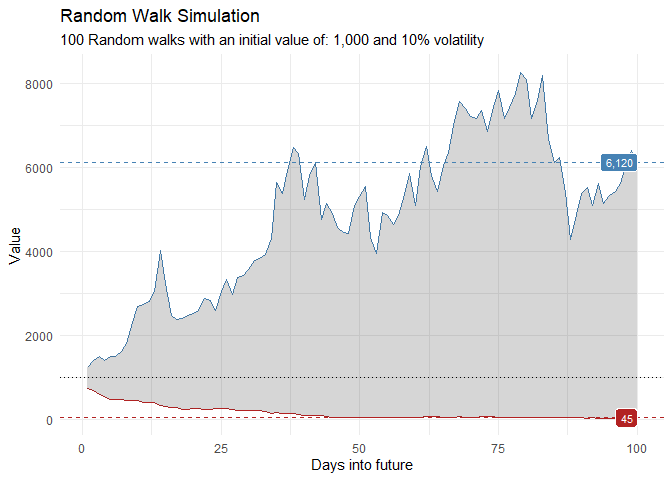
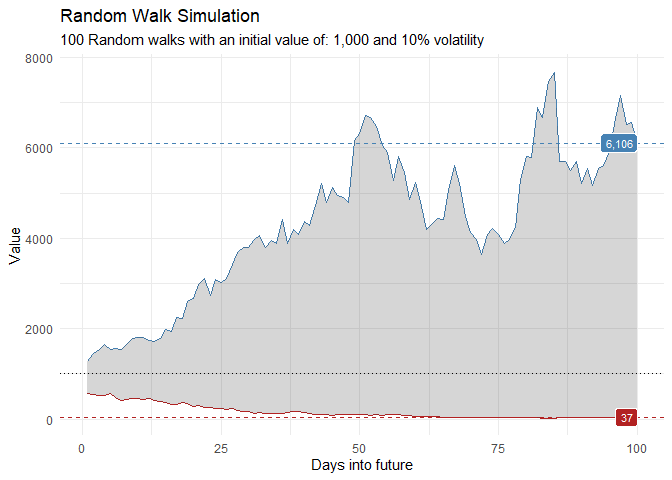
rebuild readme

diff --git a/README.md b/README.md
@@ -1,7 +1,7 @@
 
 <!-- README.md is generated from README.Rmd. Please edit that file -->
 
-# healthyR.ts <img src="man/figures/test1.png" width="147" height="170" align="right" />
+# healthyR.ts <img src="man/figures/logo.png" width="147" height="170" align="right" />
 
 <!-- badges: start -->
 
@@ -49,12 +49,12 @@ head(df)
 #> # A tibble: 6 × 4
 #>     run     x        y cum_y
 #>   <dbl> <dbl>    <dbl> <dbl>
-#> 1     1     1 -0.0511   949.
-#> 2     1     2  0.247   1184.
-#> 3     1     3  0.00805 1193.
-#> 4     1     4  0.188   1417.
-#> 5     1     5 -0.0373  1364.
-#> 6     1     6 -0.0302  1323.
+#> 1     1     1  0.00657 1007.
+#> 2     1     2  0.0209  1028.
+#> 3     1     3 -0.0846   941.
+#> 4     1     4  0.0436   982.
+#> 5     1     5 -0.0959   887.
+#> 6     1     6 -0.0167   873.
 ```
 
 Now that the data has been generated, lets take a look at it.
